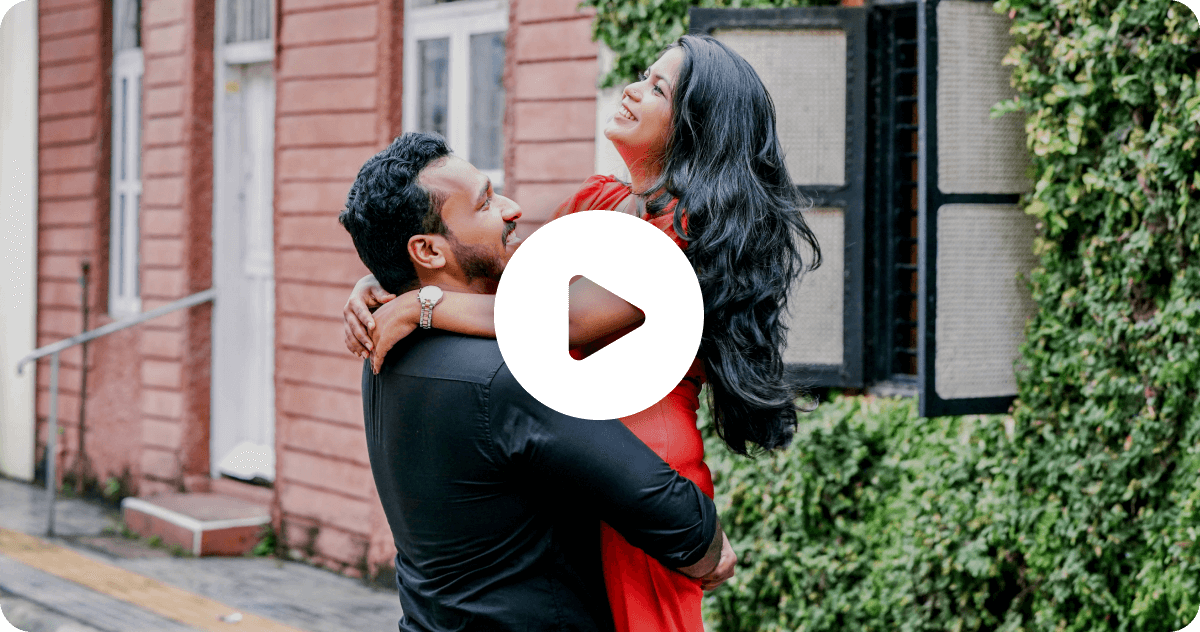
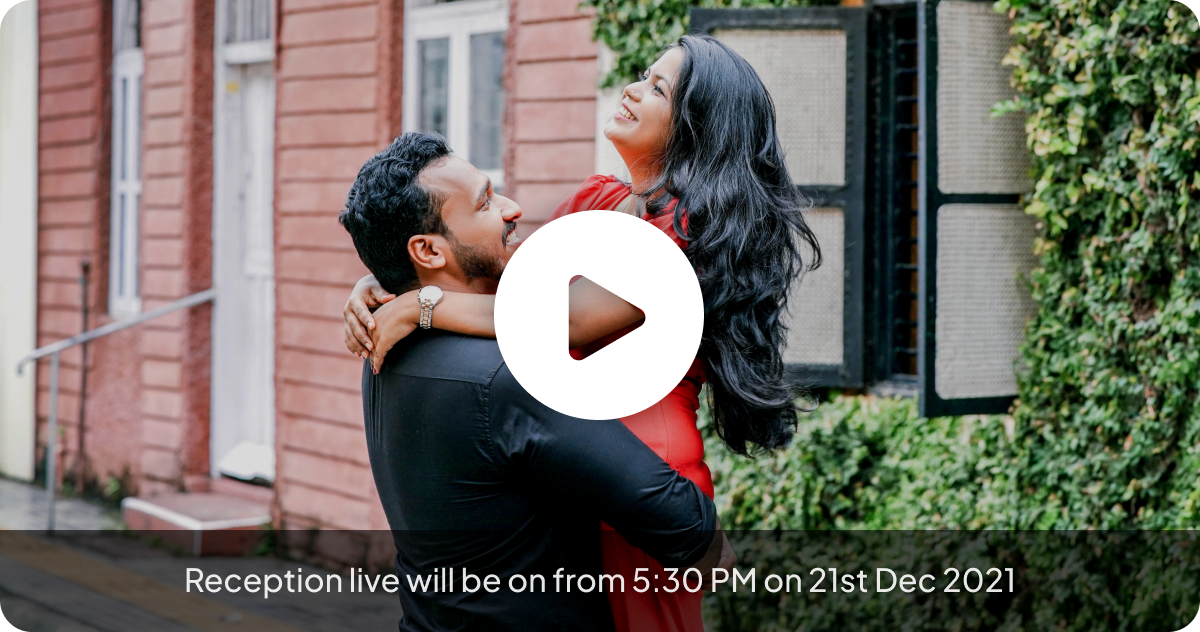
Updated live link

Changed region(s): [[0.0, 0.8117, 1.0, 1.0]]

diff --git a/index.html b/index.html
@@ -131,13 +131,13 @@
 			<div class="row">
 				<div class="col-md-5">
 					<img src="img/live-stream-header.png" class="section-header-img">
-					<p class="section-desc">As much as we would’ve loved your presence, we understand that it may not be possible given the pressing times. Do join us virtually for the reception on Youtube on 21st Dec and wish us the best :) 
-						<br/><br/>Time: Starts from 5:30 PM
+					<p class="section-desc">As much as we would’ve loved your presence, we understand that it may not be possible given the pressing times. Do join us virtually for the reception (starts from 5:30 PM) on Youtube on 21st Dec and wish us the best :) 
+						<br/><br/><a href="https://youtu.be/kVyh5Vkf5ek" style="font-weight: bold; color: #fff" target="_blank">Tap here to view</a> the wedding ceremony recording.
 					</p>
 				</div>
 				<div class="col-md-1"></div>
 				<div class="col-md-6">
-					<a href="https://youtu.be/kVyh5Vkf5ek" target="_blank">
+					<a href="https://youtu.be/v-QYrNru3eM" target="_blank">
 						<img src="img/yt-preview.png" class="yt-preview-img">
 					</a>
 				</div>
